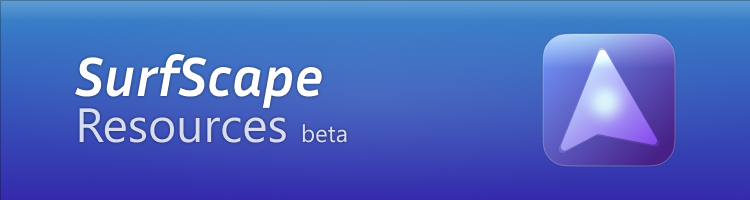
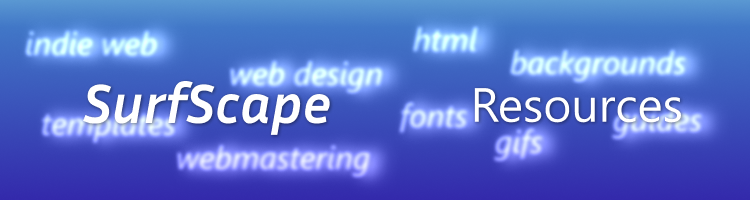
add: 📃 resources (WIP)

diff --git a/src/resources/wd.html b/src/resources/wd.html
@@ -1,0 +1,12 @@
+<!DOCTYPE html>
+<html lang="en">
+  <head>
+    <meta charset="UTF-8" />
+    <meta name="viewport" content="width=device-width, initial-scale=1.0" />
+    <link rel="stylesheet" href="/css/iframe.css" />
+    <title>Web Design</title>
+  </head>
+  <body>
+    <h1>Hi</h1>
+  </body>
+</html>

diff --git a/src/resources/index.md b/src/resources/index.md
@@ -1,7 +1,48 @@
 ---
 title: Resources
+hero_title: SurfScape Resources
+hero_description: A directory of everything about web building, from fonts, to templates, all available to be used on your Neocities website!
 layout: page.njk
 banner: resources.png
 ---
 
-## Coming soon
+## Welcome to SurfScape Resources! {style="text-align:center;margin-bottom:0;" .sk-display .sk-display--2}
+
+A directory of everything about web building, from fonts, to templates, all available to be used on your Neocities website! {style="text-align:center;margin-block: 0 1em;" .sk-display .sk-display--4}
+
+<tab-container onload="showWarningModal()">
+  <menu class="sk-tab-buttons" id="tabButtons">
+    <li>
+      <button class="sk-tab-button" data-tab="tab1" aria-checked="true" id="tab-button">Choose a catergory</button>
+    </li>
+    <li style="margin-left:auto;">
+      <button class="sk-tab-button" data-tab="submission" aria-checked="false">Submit a resource</button>
+    </li>
+  </menu>
+  <sk-tab-content-container>
+      <div class="sk-tab-content" id="tab1" aria-hidden="false">
+        <div id="category-viewer-container" style="display:none; flex-direction: column; gap:var(--spacing)">
+            <button class="sk-button" onclick="closeFrame()" style="width: fit-content;">Go back...</button>
+            <iframe src="#" frameborder="0" id="category-viewer" name="iframe_a"></iframe>
+          </div>
+      <dl id="category-selector" style="margin-left:0.25rem">
+        {%- for categories in resources.categories -%}
+        <dt><a href="{{categories.name}}" onclick="showFrame()" target="iframe_a" data-cat="{{categories.title}}">{{categories.title}}</a></dt>
+        <dd>{{categories.description}}</dd>
+        {%- endfor -%}
+      </dl>
+      </div>
+    <div class="sk-tab-content" id="submission" aria-hidden="true">
+      <section>
+        <h2 id="submit-a-website">Submit a resource</h2>
+        <p>If you have found an interesting resource (a gif directory, or a well-written guide about CSS transitions) you can send us the link and category, and we will review it for addition.</p>
+        <p>Please contact us trough mail with the following subject: "SurfScape Resource Addition"</p>
+        <a href="/about/contact" class="sk-button sk-button-ocean">Contact Info</a>
+      </section>
+    </div>
+  </tab-content-container>
+</tab-container>
+
+<style>
+    
+    </style>
